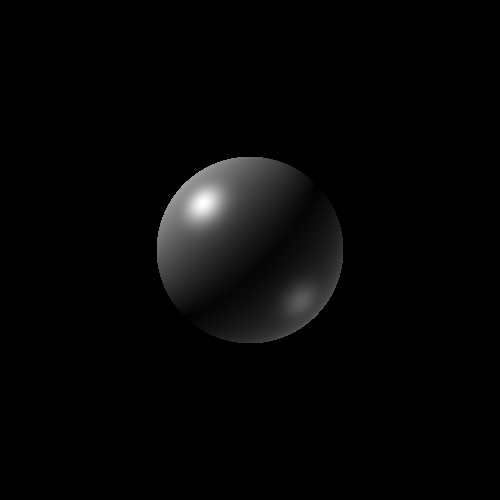
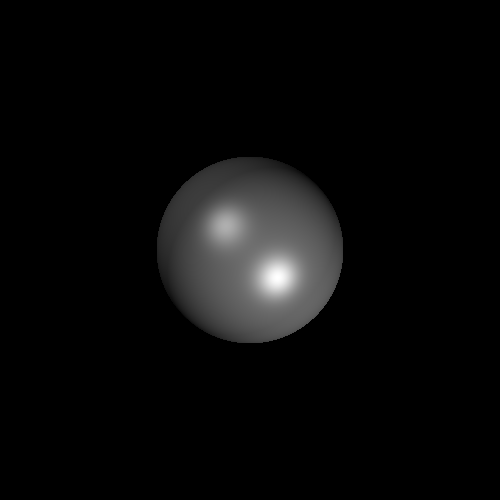
chore(compgraph/lab2): 🔧 change default values

Changed region(s): [[0.3, 0.3, 0.69, 0.69]]

diff --git a/compgraph/lab2/src/gui.py b/compgraph/lab2/src/gui.py
@@ -73,9 +73,9 @@ class App:
         self.add_entry("radius", "Радиус R, мм", "800")
 
         self.add_section("Источник 1")
-        self.add_entry("light1_x", "X, мм", "-10000")
-        self.add_entry("light1_y", "Y, мм", "10000")
-        self.add_entry("light1_z", "Z, мм", "4000")
+        self.add_entry("light1_x", "X, мм", "-4000")
+        self.add_entry("light1_y", "Y, мм", "4000")
+        self.add_entry("light1_z", "Z, мм", "8000")
         self.add_entry("light1_intensity", "I0, Вт/ср", "2000")
         self.add_vector_entry("light1_dir", "Направление (x, y, z)", ("0", "0", "-1"))
         self.light1_enabled = tk.BooleanVar(value=True)
@@ -83,9 +83,9 @@ class App:
                        command=self.calculate).pack(anchor="w")
 
         self.add_section("Источник 2")
-        self.add_entry("light2_x", "X, мм", "10000")
-        self.add_entry("light2_y", "Y, мм", "-10000")
-        self.add_entry("light2_z", "Z, мм", "2000")
+        self.add_entry("light2_x", "X, мм", "4000")
+        self.add_entry("light2_y", "Y, мм", "-4000")
+        self.add_entry("light2_z", "Z, мм", "7000")
         self.add_entry("light2_intensity", "I0, Вт/ср", "3000")
         self.add_vector_entry("light2_dir", "Направление (x, y, z)", ("0", "0", "-1"))
         self.light2_enabled = tk.BooleanVar(value=True)
@@ -101,8 +101,8 @@ class App:
         self.add_entry("viewer_x", "x0, мм", "0")
         self.add_entry("viewer_y", "y0, мм", "0")
         self.add_entry("viewer_z", "z0, мм", "6000")
-        self.add_entry("yaw", "Азимут, °", "0")
-        self.add_entry("pitch", "Наклон, °", "-90")
+        self.add_entry("yaw", "Поворот по горизонтали, °", "0")
+        self.add_entry("pitch", "Наклон по вертикали, °", "-90")
         self.add_entry("screen_distance", "Расстояние до экрана, мм", "6000")
         self.look_at_sphere = tk.BooleanVar(value=False)
         tk.Checkbutton(self.left_frame, text="смотреть на центр сферы", variable=self.look_at_sphere,
@@ -134,7 +134,7 @@ class App:
     def add_entry(self, key: str, text: str, default: str) -> None:
         row = tk.Frame(self.left_frame)
         row.pack(fill=tk.X)
-        tk.Label(row, text=text, width=24, anchor="w").pack(side=tk.LEFT)
+        tk.Label(row, text=text, width=26, anchor="w").pack(side=tk.LEFT)
         self.make_entry(row, key, default, 10).pack(side=tk.LEFT)
 
     def make_entry(self, parent: tk.Frame, key: str, default: str, width: int) -> tk.Entry:
@@ -150,7 +150,7 @@ class App:
     def add_vector_entry(self, key: str, text: str, defaults: tuple[str, str, str]) -> None:
         row = tk.Frame(self.left_frame)
         row.pack(fill=tk.X)
-        tk.Label(row, text=text, width=24, anchor="w").pack(side=tk.LEFT)
+        tk.Label(row, text=text, width=26, anchor="w").pack(side=tk.LEFT)
         for axis, default in zip("xyz", defaults):
             self.make_entry(row, f"{key}_{axis}", default, 5).pack(side=tk.LEFT, padx=(0, 2))
 
@@ -276,7 +276,7 @@ class App:
         check_range(warnings, "xC", center.x, -10000, 10000)
         check_range(warnings, "yC", center.y, -10000, 10000)
         check_range(warnings, "zC", center.z, 100, 10000)
-        check_range(warnings, "Наклон камеры", pitch, -90, 90)
+        check_range(warnings, "Наклон камеры по вертикали", pitch, -90, 90)
         for number, light in enumerate([light1, light2], start=1):
             check_range(warnings, f"xL{number}", light.position.x, -10000, 10000)
             check_range(warnings, f"yL{number}", light.position.y, -10000, 10000)
@@ -312,8 +312,8 @@ class App:
         text = (f"Разрешение: {width_resolution} x {height_resolution}, "
                 f"размер пикселя {pixel_size:.2f} мм\n")
         forward = camera.forward
-        text += (f"Камера: азимут {yaw:.1f}°, наклон {pitch:.1f}°, "
-                 f"направление взгляда ({forward.x:.3f}, {forward.y:.3f}, {forward.z:.3f})\n")
+        text += f"Камера: поворот по горизонтали {yaw:.1f}°, наклон по вертикали {pitch:.1f}°\n"
+        text += f"Направление взгляда: ({forward.x:.3f}, {forward.y:.3f}, {forward.z:.3f})\n"
         if max_point is not None and min_point is not None:
             text += f"Максимальная яркость: {max_luminance:.4f} Вт/(м²·ср) в точке {format_point(max_point)}\n"
             text += f"Минимальная яркость:  {min_luminance:.4f} Вт/(м²·ср) в точке {format_point(min_point)}\n"

diff --git a/compgraph/lab2/src/lighting.py b/compgraph/lab2/src/lighting.py
@@ -53,8 +53,8 @@ class Camera:
     Наблюдатель с экраном. Экран - прямоугольник, перпендикулярный направлению взгляда,
     его центр лежит на оси взгляда на расстоянии screen_distance от наблюдателя.
 
-    yaw   - азимут, угол поворота вокруг оси Z от оси +Y по часовой стрелке (к оси +X), градусы
-    pitch - угол наклона от горизонтальной плоскости (-90 - вниз по оси Z, 90 - вверх), градусы
+    yaw   - поворот по горизонтали: угол поворота вокруг оси Z от оси +Y по часовой стрелке (к оси +X), градусы
+    pitch - наклон по вертикали: угол от горизонтальной плоскости (-90 - вниз по оси Z, 90 - вверх), градусы
     """
 
     def __init__(self, position: Vector, yaw: float, pitch: float, screen_distance: float):
